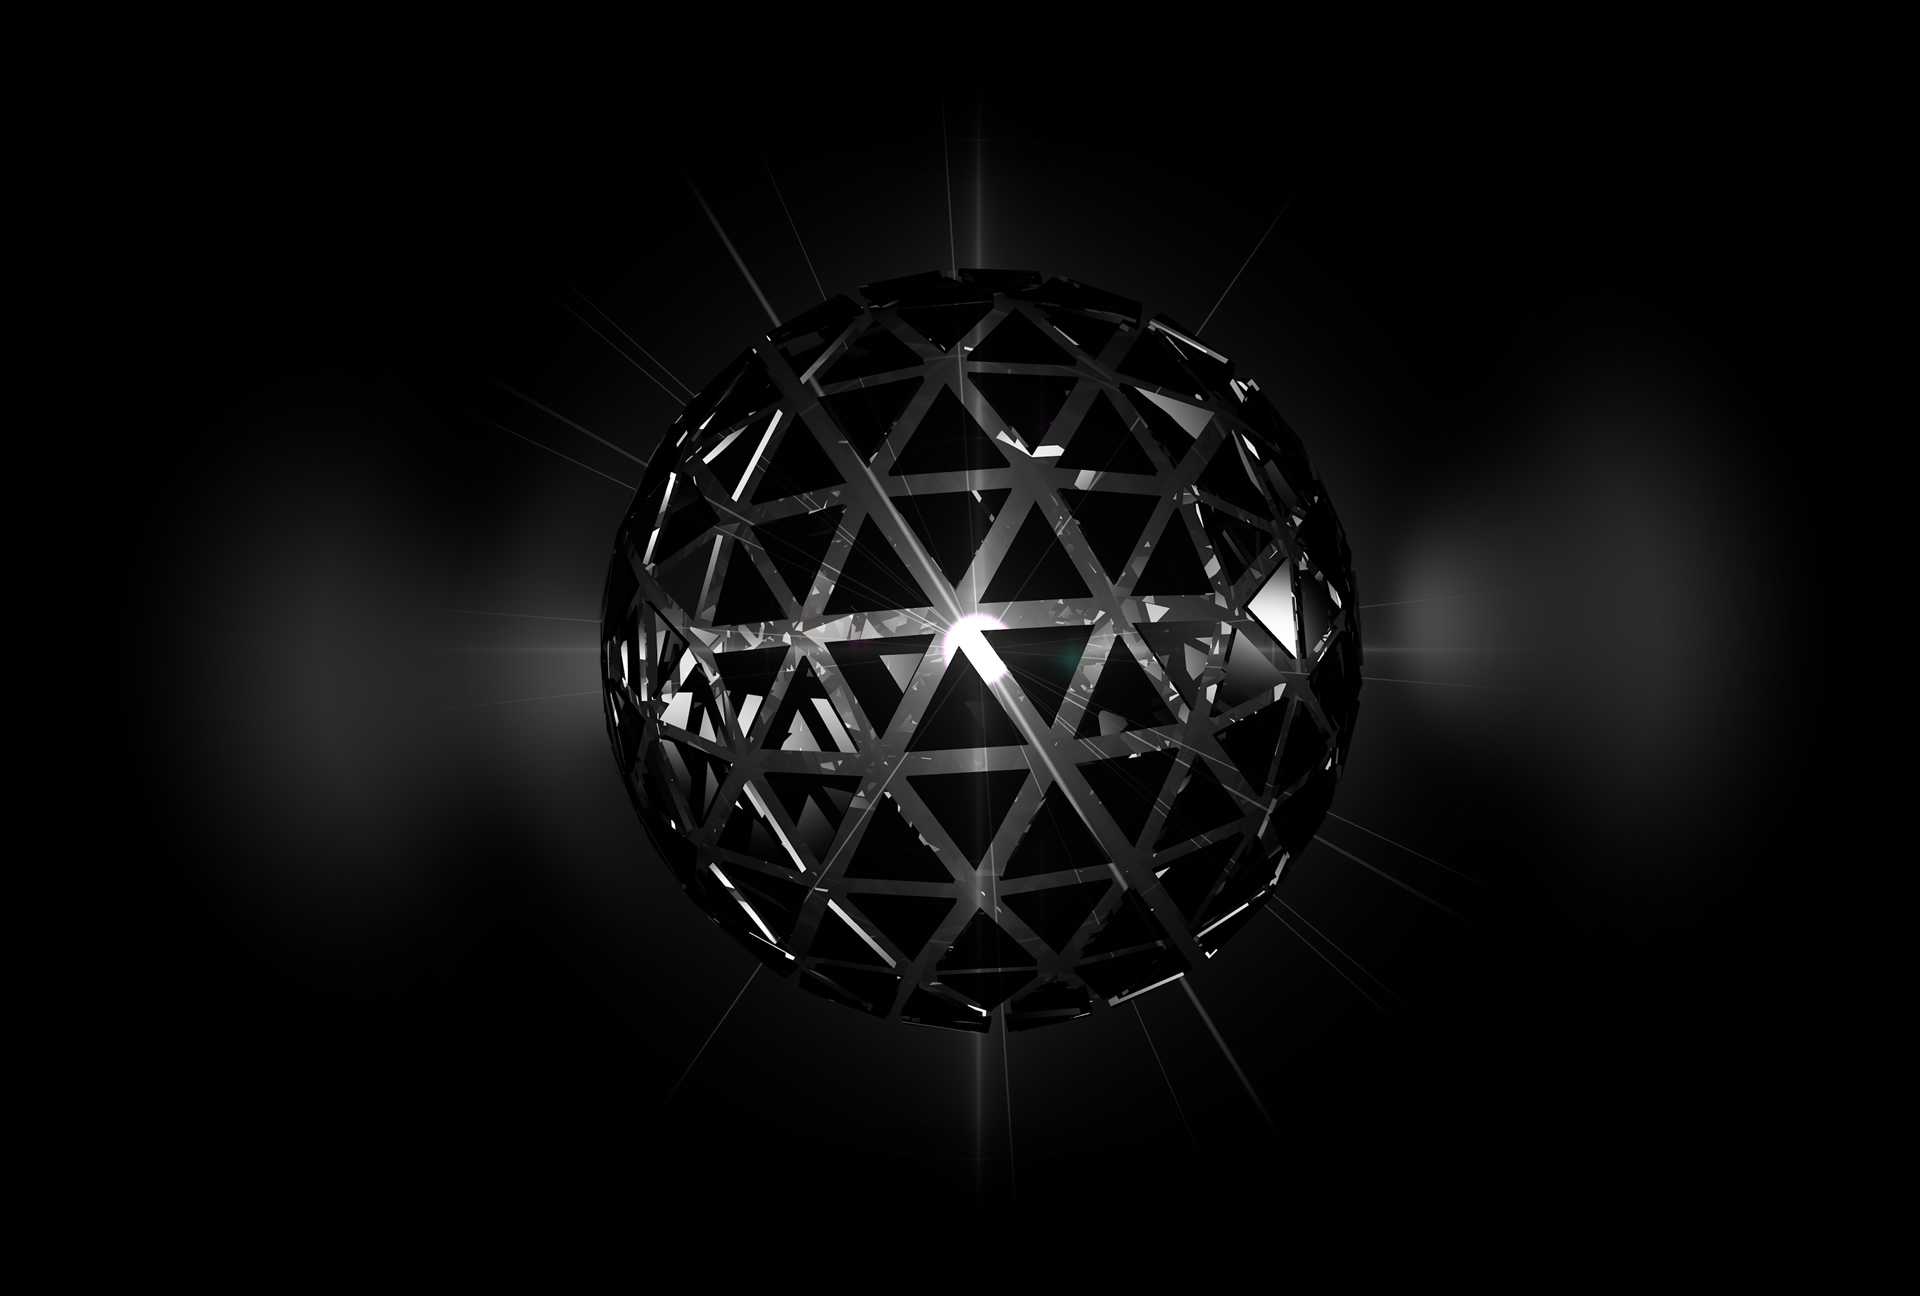
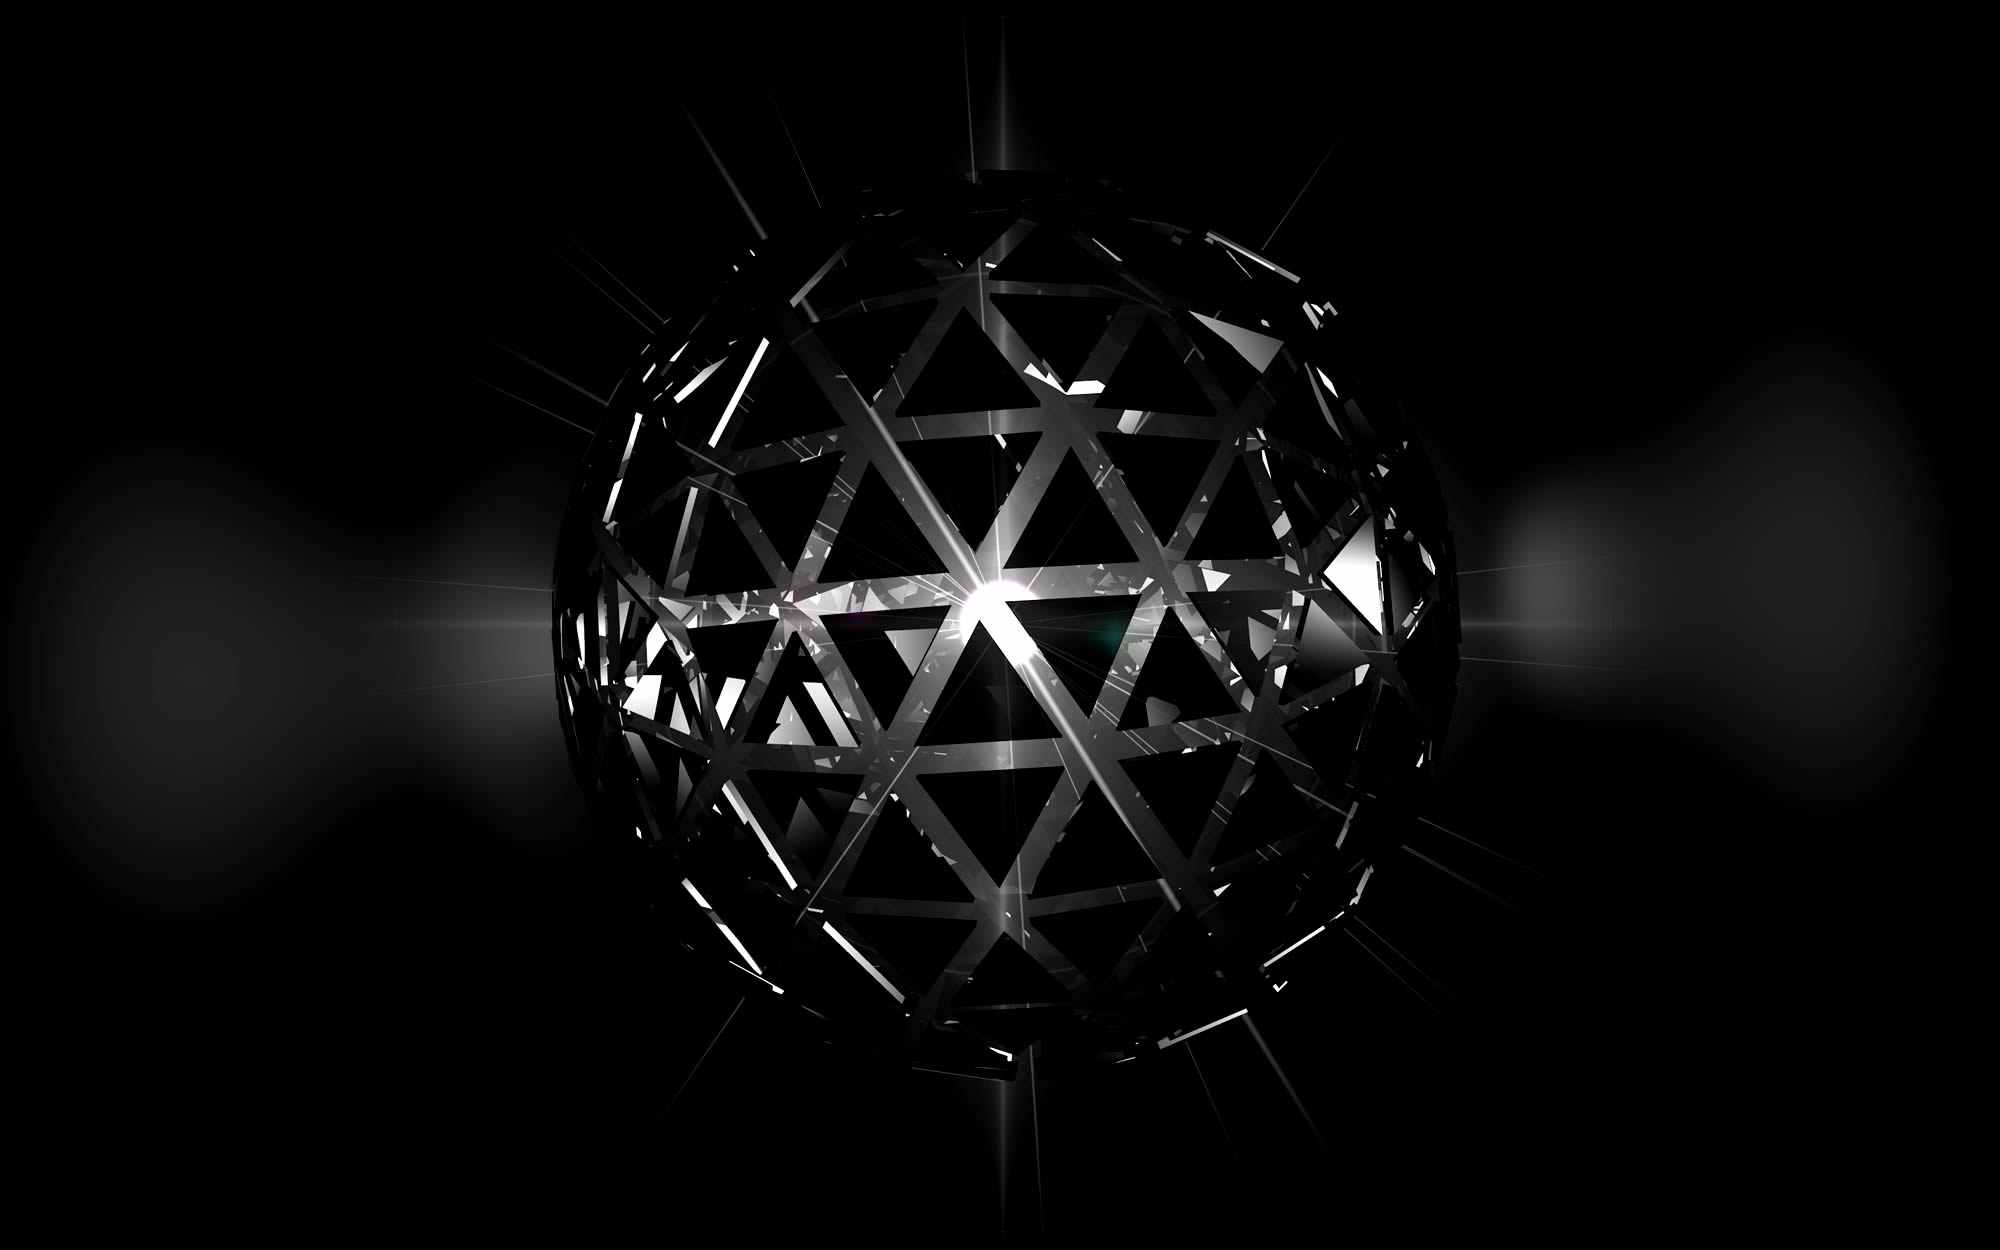
auto-resize sphere

diff --git a/app/scripts/index.js b/app/scripts/index.js
@@ -1,0 +1,48 @@
+'use strict';
+
+$(function () {
+  var ALLOWED_IMAGE_OVERLAP_X = 0.5;
+  var ALLOWED_IMAGE_OVERLAP_Y = 0.75;
+
+  var $window = $(window)
+  var $splashImage = $('#splash-background > img')
+    .css({ position: 'absolute' });
+
+  function onLoad() {
+    $('body').addClass('loaded');
+
+    var imageWidth   = $splashImage.width();
+    var imageHeight  = $splashImage.height();
+    var resizeWidth  = $splashImage.width() * ALLOWED_IMAGE_OVERLAP_X;
+    var resizeHeight = $splashImage.height() * ALLOWED_IMAGE_OVERLAP_Y;
+    function setSplashImageSize() {
+      var windowWidth  = $window.width();
+      var windowHeight = $window.height();
+      var widthScale  = windowWidth / resizeWidth;
+      var heightScale = windowHeight / resizeHeight;
+      var width = imageWidth;
+      var height = imageHeight;
+      if (widthScale < 1 && widthScale < heightScale) {
+        width *= widthScale;
+        height *= widthScale;
+      } else if (heightScale < 1) {
+        width *= heightScale;
+        height *= heightScale;
+      }
+
+      var left = Math.round( ( windowWidth  - width  ) / 2 );
+      var top  = Math.round( ( windowHeight - height ) / 2 );
+
+      $splashImage
+        .css({
+          width: width + 'px',
+          height: height + 'px',
+          left: left + 'px',
+          top: top + 'px',
+        });
+    }
+    setSplashImageSize();
+    $window.on('resize', setSplashImageSize);
+  }
+  $splashImage.get(0).isComplete && onLoad() || $splashImage.on('load', onLoad);
+});

diff --git a/app/index.html b/app/index.html
@@ -18,11 +18,8 @@
     <!-- endbuild -->
 
     <!-- build:less styles/index.css -->
-    <link rel="stylesheet/less" type="text/css" href="less/index.less" />
-    <link rel="stylesheet/less" type="text/css" href="less/spin-hover.less" />
-    <!-- endbuild -->
-    <!-- build:remove -->
-    <script src="/bower_components/less/dist/less.js" data-env="development" data-dump-line-numbers="comments"></script>
+    <link rel="stylesheet/less" href="less/index.less" />
+    <link rel="stylesheet/less" href="less/spin-hover.less" />
     <!-- endbuild -->
     
     <!-- build:js scripts/vendor/modernizr.js -->
@@ -35,7 +32,8 @@
     <![endif]-->
 
 
-    <div id="splash">
+    <div id="splash-background"><img src="images/icoexplosion.jpg" /></div>
+    <div id="splash-foreground">
       <div class="btn-toolbar pull-left" role="toolbar">
         <a class="btn btn-social-icon btn-lg btn-github spin-hover" href="https://github.com/benkrejci" target="_blank"><span class="fa fa-github"></span></a>
         <a class="btn btn-social-icon btn-lg btn-linkedin spin-hover" href="https://www.linkedin.com/in/ben-krejci" target="_blank"><span class="fa fa-linkedin"></span></a>
@@ -60,6 +58,10 @@
     <!-- bower:js -->
     <script src="/bower_components/jquery/dist/jquery.js"></script>
     <!-- endbower -->
+    <!-- endbuild -->
+
+    <!-- build:js scripts/index.js -->
+    <script src="scripts/index.js"></script>
     <!-- endbuild -->
   </body>
 </html>

diff --git a/app/less/index.less b/app/less/index.less
@@ -8,13 +8,30 @@ body {
   background-color: #000;
 }
 
-#splash {
-  overflow: hidden;
-  padding: 4px;
+#splash-background {
+  position: absolute;
+  left: 0;
+  top: 0;
+  z-index: 1;
+  width: 100%;
   height: 100%;
-  min-height: 600px;
-  max-height: 1296px;
-  background: #000 url(/images/icoexplosion.jpg) no-repeat center center;
-  background-size: auto 100%;
+  overflow: hidden;
+  transition: all 12s;
+  opacity: 0;
 }
+body.loaded #splash-background {
+  opacity: 1;
+}
+
+#splash-foreground {
+  position: absolute;
+  left: 0;
+  top: 0;
+  z-index: 101;
+  overflow: hidden;
+  width: 100%;
+  height: 100%;
+  padding: 4px;
+}
+
 
